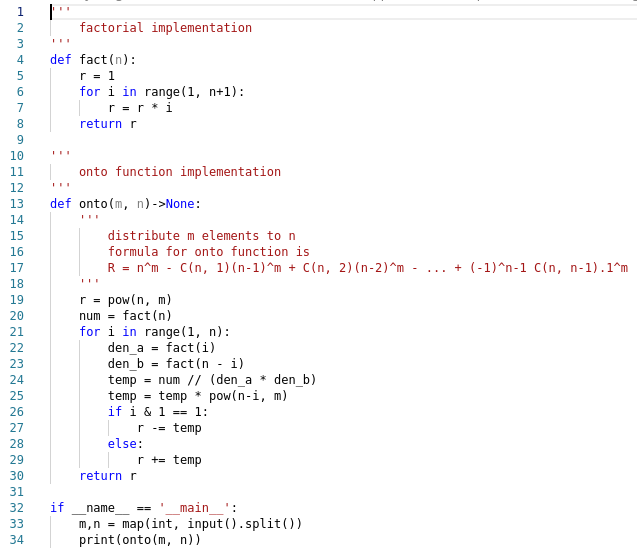
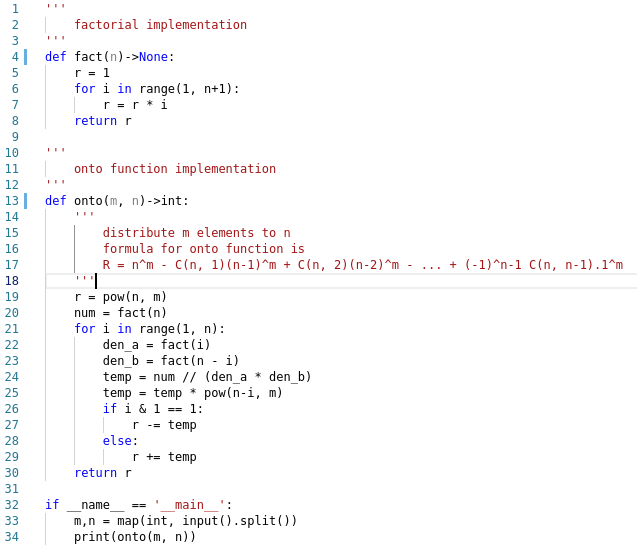
onto

diff --git a/chapter_8_advanced_counting_techniques/8.6_applications_of_inclusion_exclusion/exercises/repo/onto.py b/chapter_8_advanced_counting_techniques/8.6_applications_of_inclusion_exclusion/exercises/repo/onto.py
@@ -1,7 +1,7 @@
 '''
     factorial implementation
 '''
-def fact(n):
+def fact(n)->None:
     r = 1
     for i in range(1, n+1):
         r = r * i
@@ -10,7 +10,7 @@ def fact(n):
 '''
     onto function implementation
 '''
-def onto(m, n)->None:
+def onto(m, n)->int:
     '''
         distribute m elements to n
         formula for onto function is
